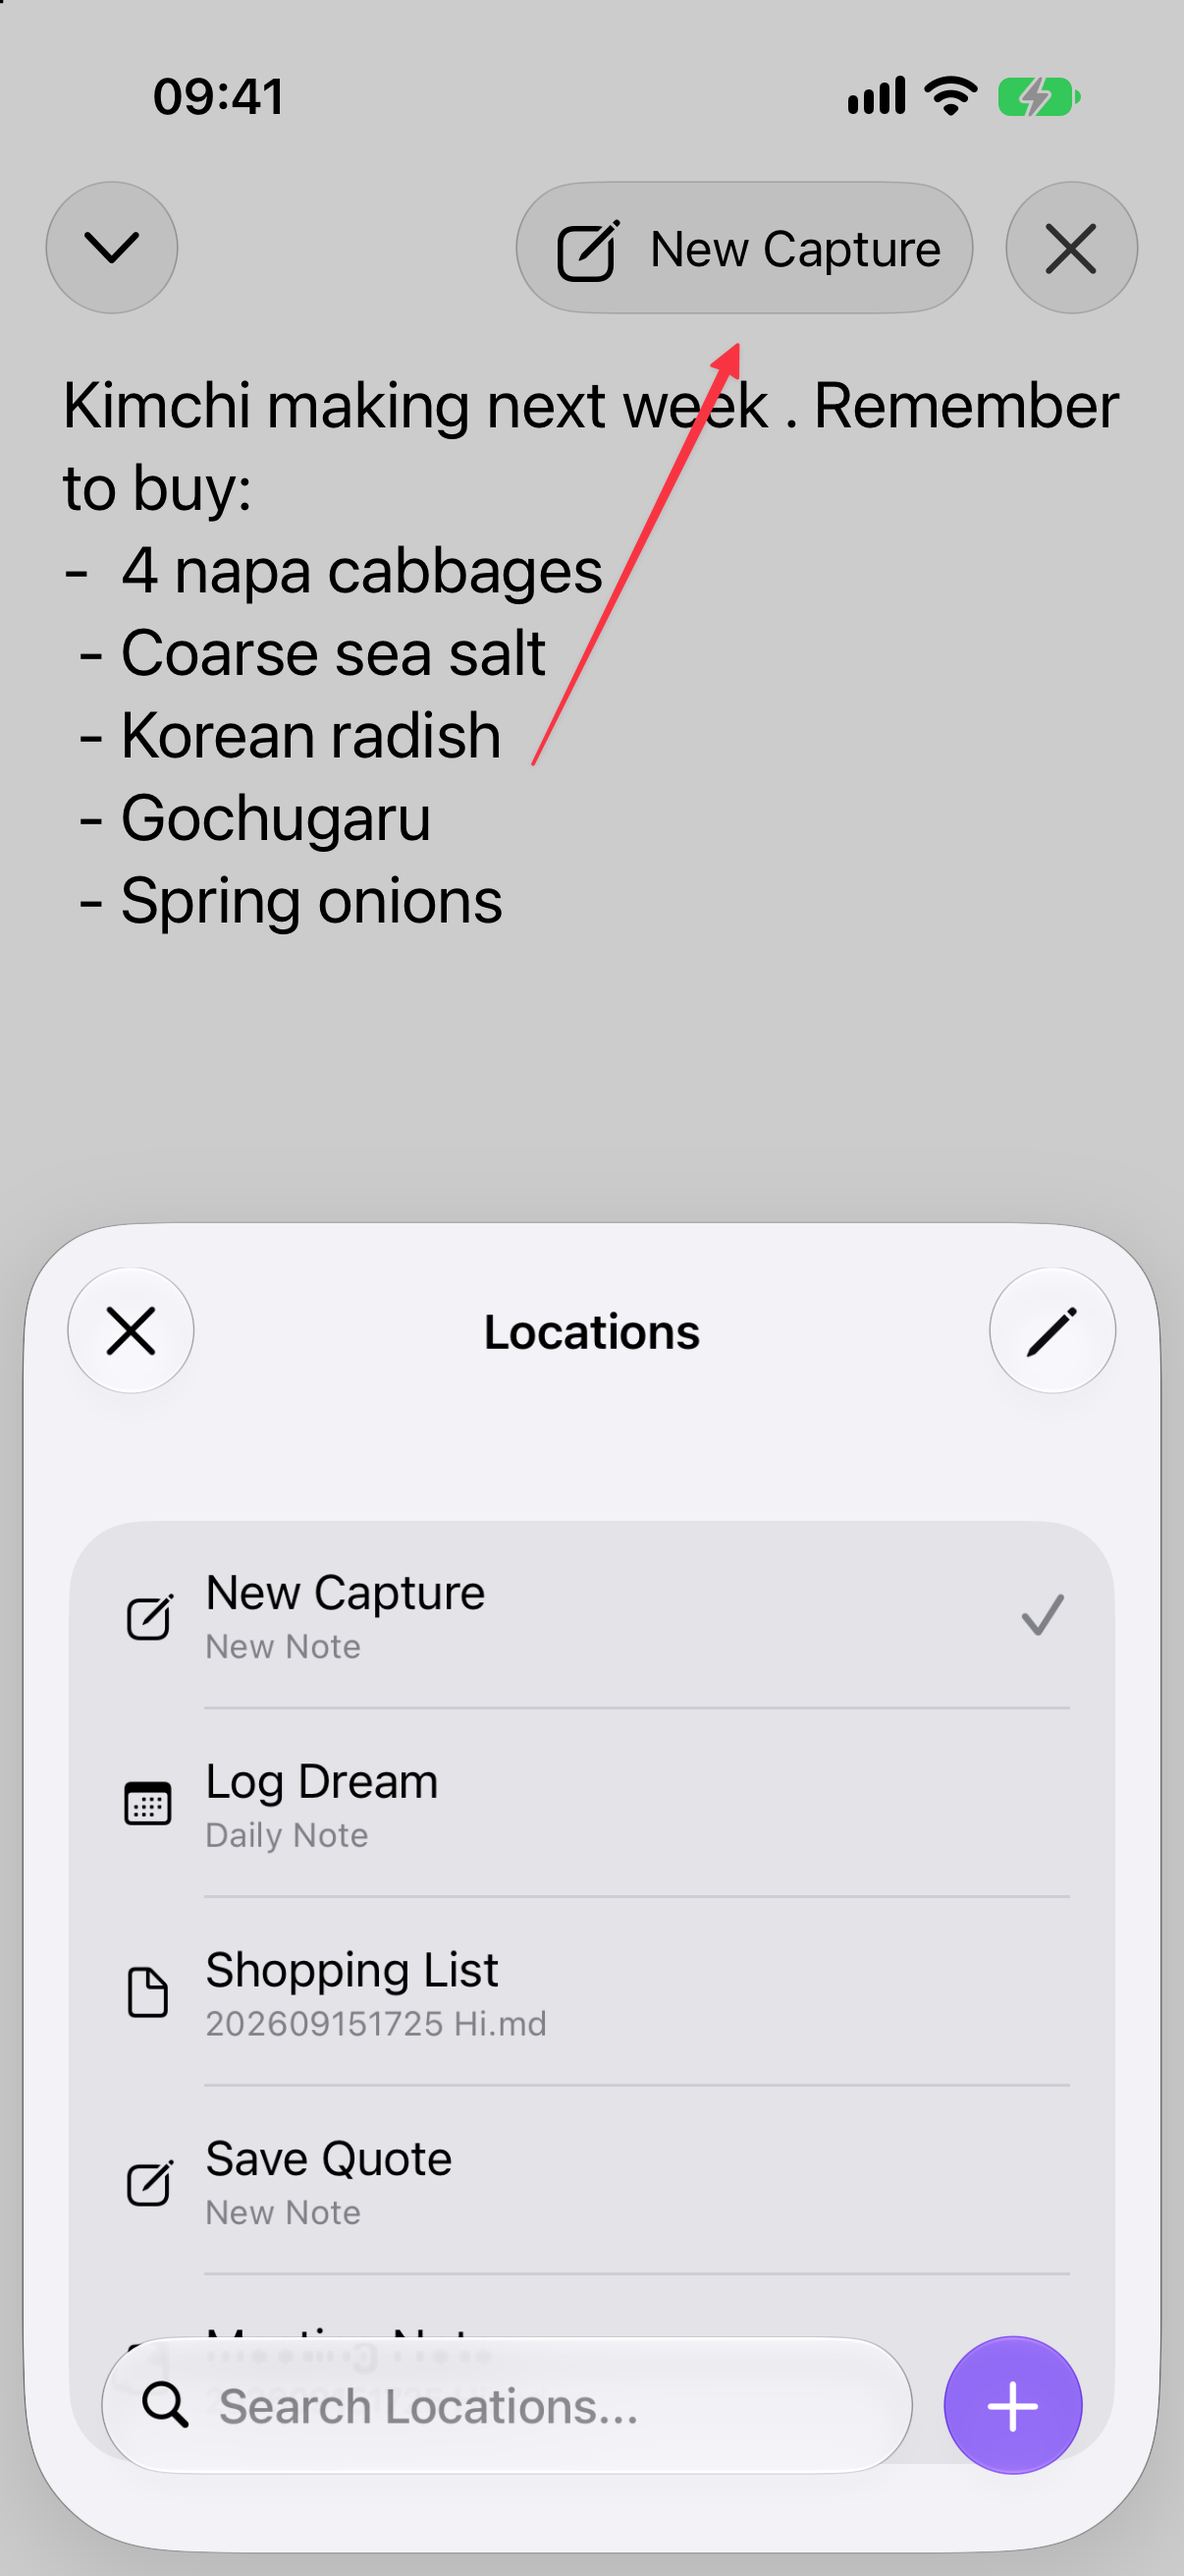
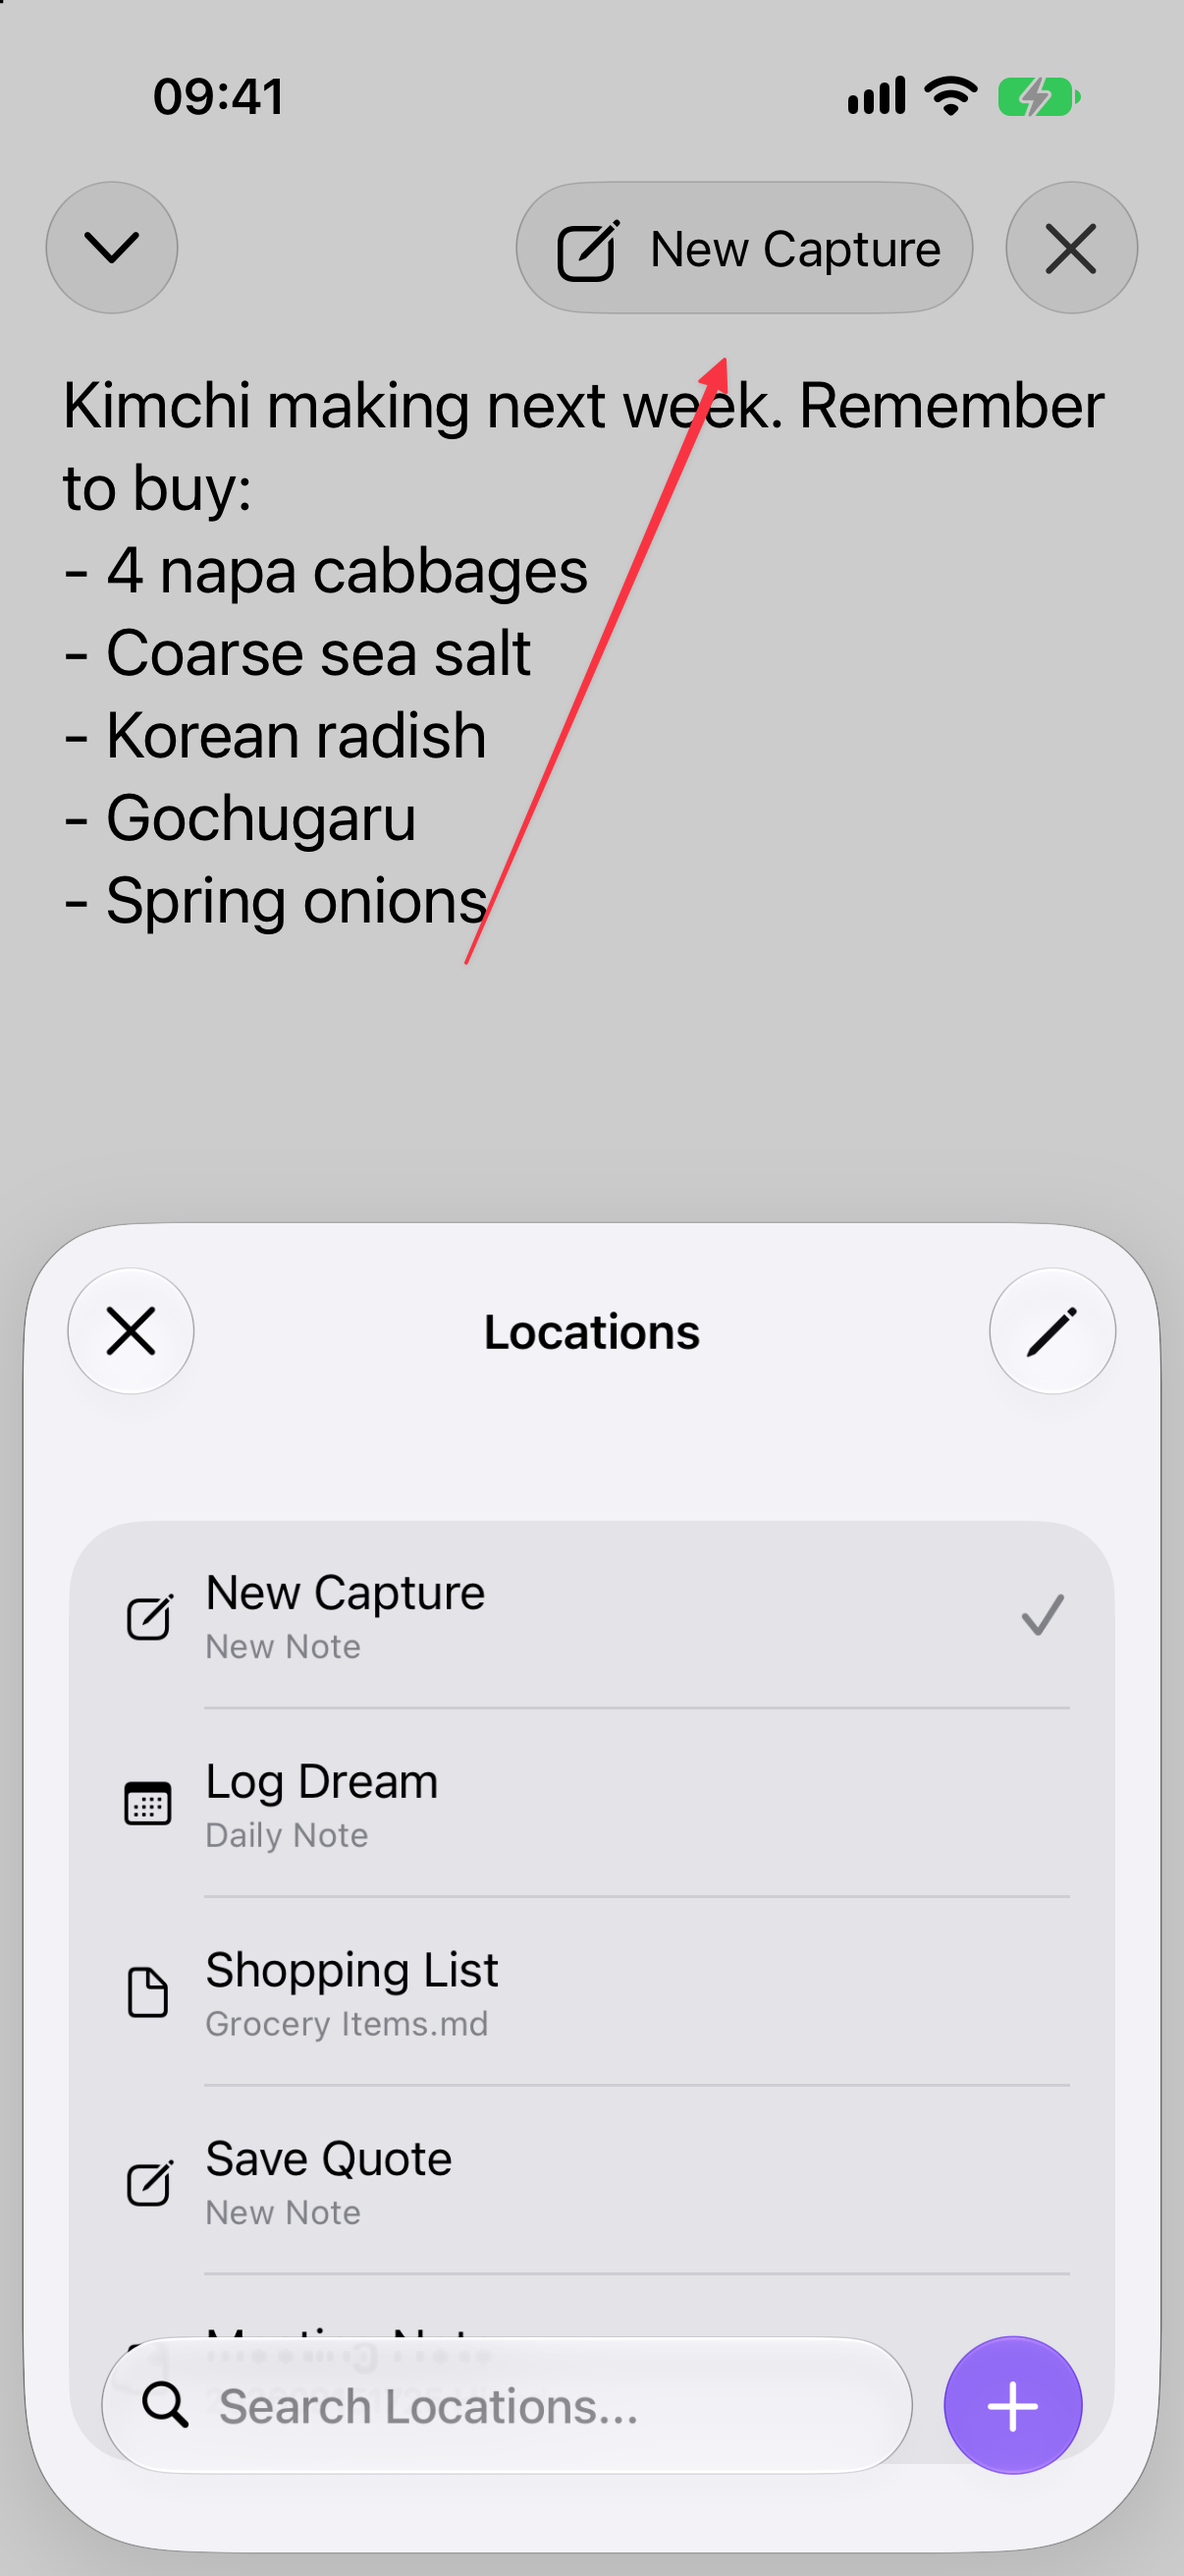
Fix images

diff --git a/en/Obsidian/Obsidian for iOS and iPadOS.md b/en/Obsidian/Obsidian for iOS and iPadOS.md
@@ -75,6 +75,8 @@ To capture text:
 
 **Note**: If Live Activities are enabled, the quick capture note also appears on the Lock Screen and, on supported iPhone models, in the Dynamic Island. Tap the bar or Live Activity to continue editing.
 
+![[ios-quick-capture-live-activity.png|400]]
+
 ### Capture locations
 
 Capture locations determine where Quick Capture saves your text. A capture location can:
